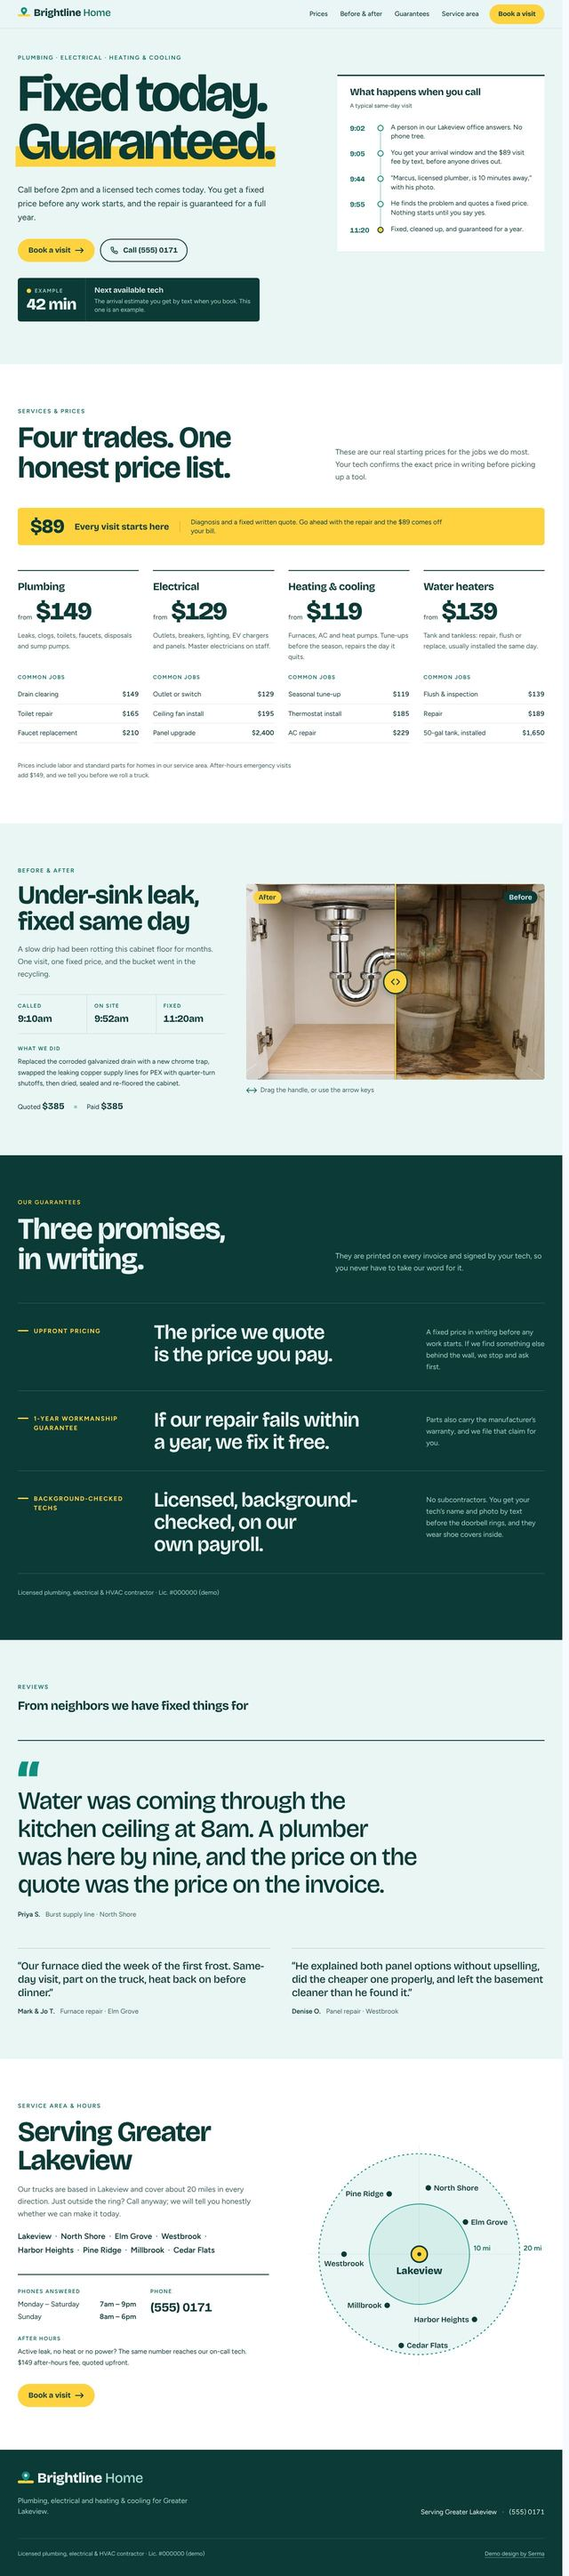
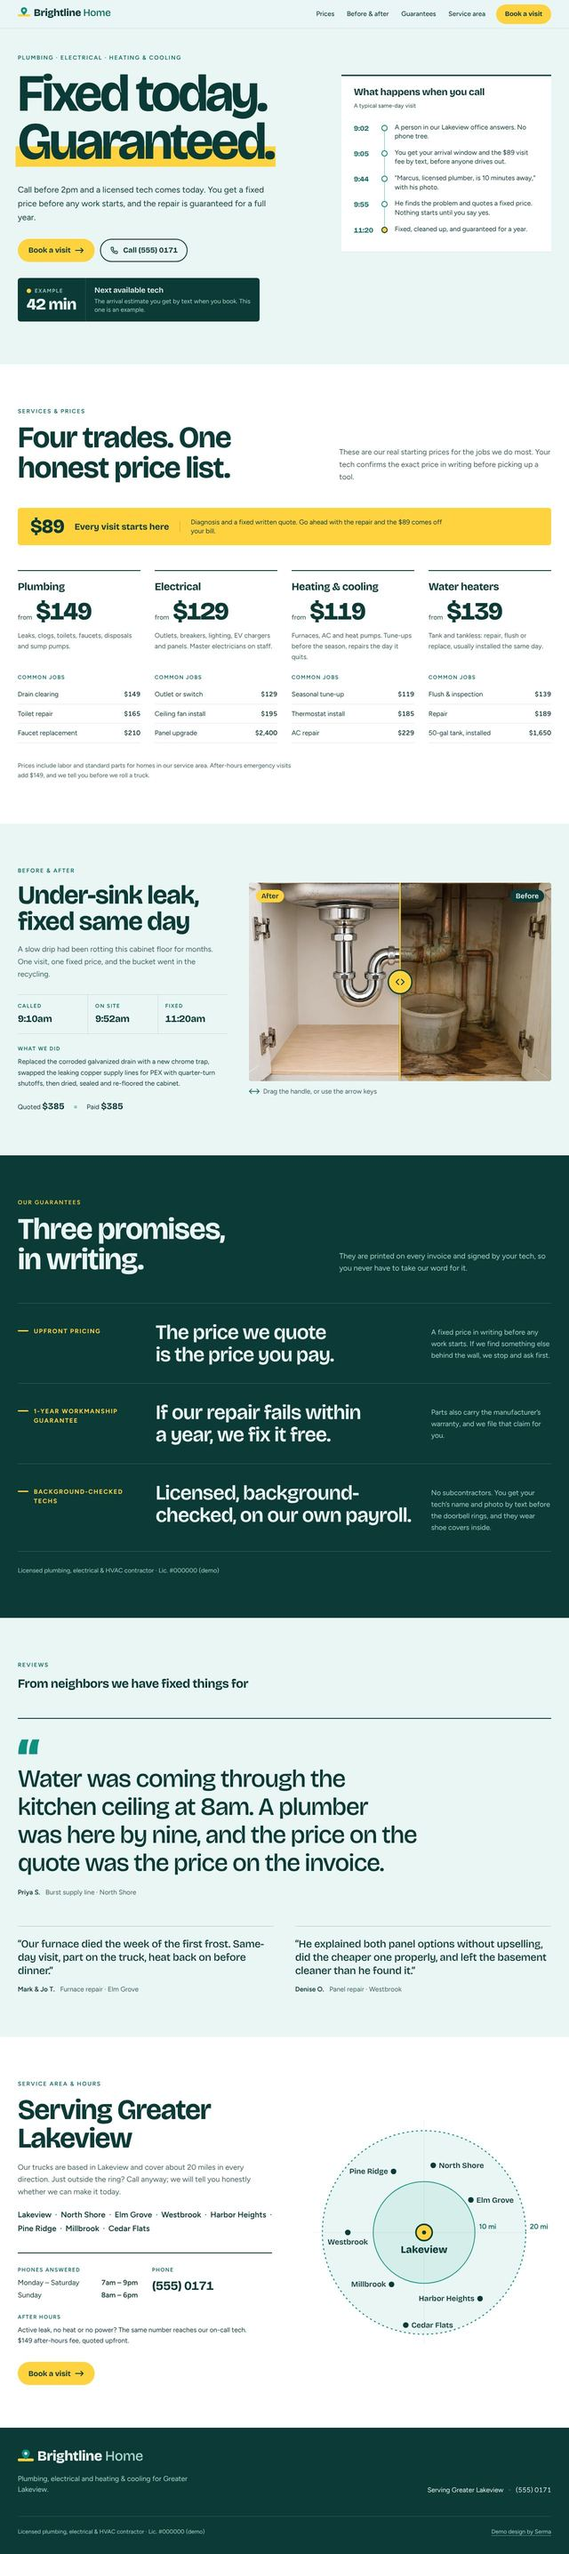
fix(work): capture demo shots without the scrollbar lane
Hide scrollbars and the reserved gutter during capture so the right edge of
every shot is page content; re-capture v1 (not yet deployed) and update the
shot heights.

Claude-Session: https://claude.ai/code/session_01FTgPwhwUMmQF4csMe9yMiq

diff --git a/src/data/demos/index.ts b/src/data/demos/index.ts
@@ -52,12 +52,12 @@ const ORDER: DemoId[] = ["barbershop", "salon", "beauty", "restaurant", "contrac
 
 /** Pixel height of each full shot (all are 1280 wide), read from the files. Re-read after a re-capture. */
 const SHOT_HEIGHT: Record<DemoId, Record<"en" | "es", number>> = {
-  barbershop: { en: 5127, es: 5293 },
-  salon: { en: 5900, es: 6038 },
-  beauty: { en: 5262, es: 5467 },
-  restaurant: { en: 5187, es: 5380 },
-  contractor: { en: 6223, es: 6472 },
-  service: { en: 5793, es: 5988 },
+  barbershop: { en: 5136, es: 5303 },
+  salon: { en: 5905, es: 6043 },
+  beauty: { en: 5270, es: 5448 },
+  restaurant: { en: 5195, es: 5387 },
+  contractor: { en: 6232, es: 6421 },
+  service: { en: 5743, es: 5920 },
 };
 
 const shot = (id: DemoId, locale: "en" | "es") => ({
